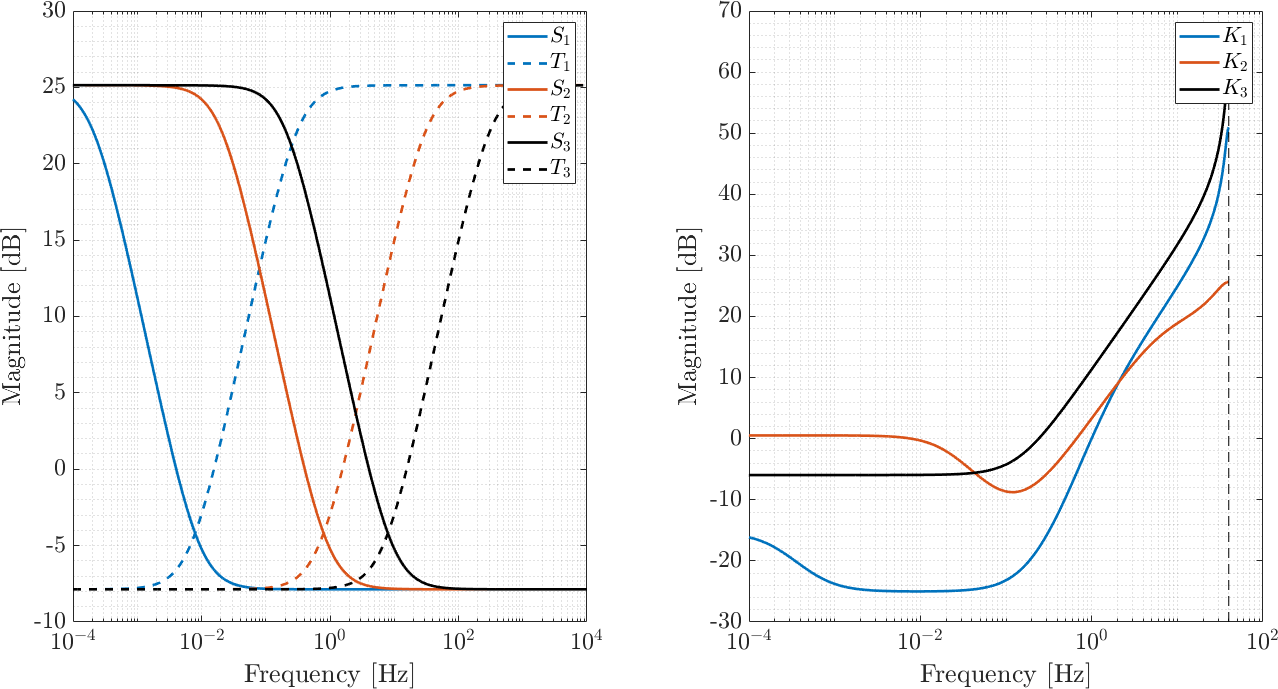
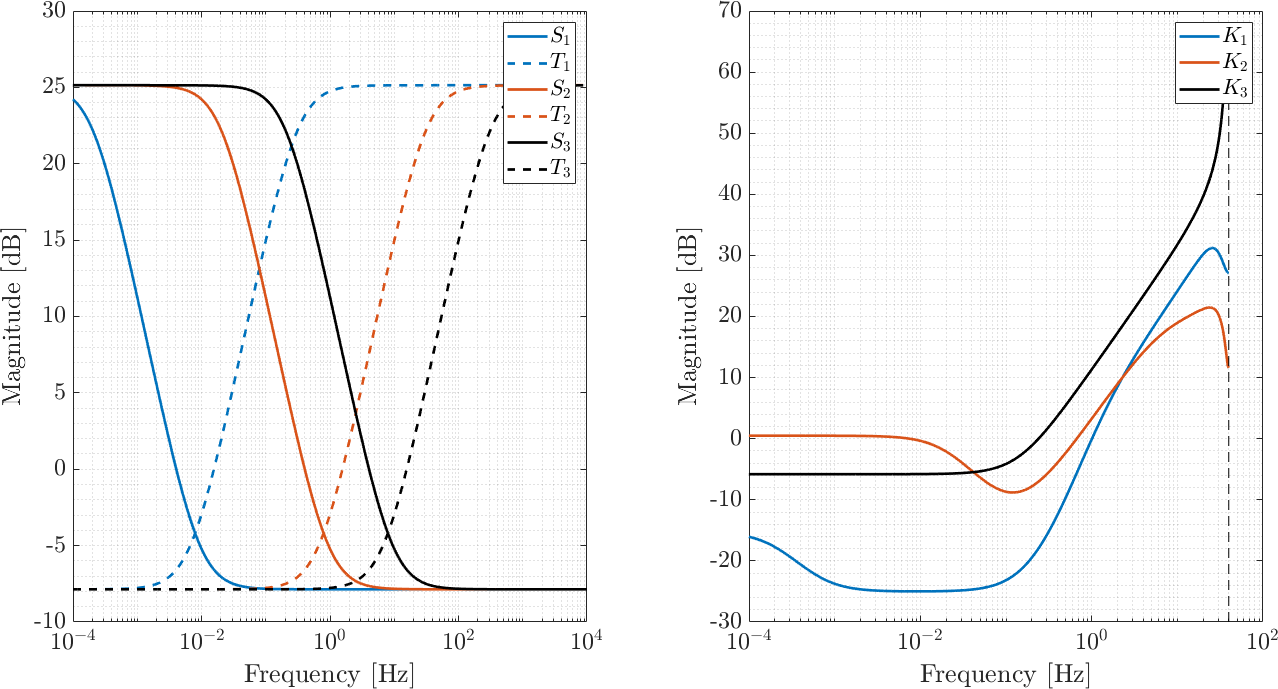
Working synthesis
Synthesis is working with updated, also conditioning is made better.

diff --git a/LMIs/controllerConditioning.m b/LMIs/controllerConditioning.m
@@ -1,61 +1,83 @@
-function [sdpVariables, A_bar, gamma] = controllerConditioning(OpenLoopSDSystem, sdpVariableStruct, opts, performanceIndicator, gamma)
+function [K, val] = controllerConditioning(sys, sdpVars, opts)
 %UNTITLED7 Summary of this function goes here
 %   Detailed explanation goes here
 %
 
 arguments
-    OpenLoopSDSystem        OpenLoopSampledDataSystem
-    sdpVariableStruct       struct
+    sys                     OpenLoopSampledDataSystem
+    sdpVars                 struct
     opts                    jfopt
-    performanceIndicator    string = 'Hinf'
-    gamma                   double = 1
 end
 
 backoff = opts.LMI.backoffFactor;
 numAcc = opts.LMI.numericalAccuracy;
 solverSettings = opts.LMI.solverOptions;
 alphabackoff = 25;
+maxIter = opts.LMI.bisection.maxIter;
 
 % Dimensions;
-nu = size(OpenLoopSDSystem.Bud, 2);
-ny = size(OpenLoopSDSystem.Cy, 1);
-nx = size(sdpVariableStruct.Y, 1);
-nc = size(sdpVariableStruct.X, 1);
+nx = size(sdpVars.Y, 1);
+nc = size(sdpVars.X, 1);
 
-gamValue = gamma*backoff;
-
-if strcmpi(performanceIndicator, 'Hinf')
-    [synthesisMatrix, A_bar] = fillHinfLMI(OpenLoopSDSystem, sdpVariableStruct, opts, gamValue);
-else
-    error('Only "Hinf" controller synthesis is specified at the moment.');
+switch lower(opts.performanceString)
+    case{'hinf', 'l2', 'h00', 'hoo'}
+        opts.performanceValue = opts.performanceValue*backoff;
 end
 
-LMI = synthesisMatrix >= numAcc*eye(size(synthesisMatrix));
+LMI = fillDissSynthesisLMI(sys, sdpVars, opts);
 
-% Add numerical aspect contraints
+% Add numerical contraints on lyapunov and controller construction matrices
 alpha = sdpvar(1,1);
-NumericalConstraint1 = (sdpVariableStruct.X - alpha*eye(size(sdpVariableStruct.X)) <= -numAcc*eye(size(sdpVariableStruct.X)));
-NumericalConstraint2 = (sdpVariableStruct.Y - alpha*eye(size(sdpVariableStruct.Y)) <= -numAcc*eye(size(sdpVariableStruct.Y)));
-ParamBlock = [sdpVariableStruct.Gamma, sdpVariableStruct.Theta; sdpVariableStruct.Upsilon, sdpVariableStruct.Omega];
+lyapNumConstr1 = (sdpVars.X - alpha*eye(size(sdpVars.X)) <= -numAcc*eye(size(sdpVars.X)));
+lyapNumConstr2 = (sdpVars.Y - alpha*eye(size(sdpVars.Y)) <= -numAcc*eye(size(sdpVars.Y)));
+ParamBlock = [sdpVars.Gamma, sdpVars.Theta; sdpVars.Upsilon, sdpVars.Omega];
 alphaBlock1 = alpha*eye(size(ParamBlock, 1));
 alphaBlock2 = alpha*eye(size(ParamBlock, 2));
-NumericalConstraint3 = [alphaBlock1, ParamBlock; ParamBlock', alphaBlock2] >= numAcc*eye(size(blkdiag(alphaBlock1, alphaBlock2)));
+contrNumConstr = [alphaBlock1, ParamBlock; ParamBlock', alphaBlock2] >= numAcc*eye(size(blkdiag(alphaBlock1, alphaBlock2)));
 
-NumericalConstraints = [NumericalConstraint1, NumericalConstraint2, NumericalConstraint3];
+NumericalConstraints = [lyapNumConstr1, lyapNumConstr2, contrNumConstr];
 
 LMI = [LMI, NumericalConstraints];
 
 diagnostics = optimize(LMI, alpha, solverSettings);
 
-alphaValue = value(alpha)*alphabackoff;
-LMI = replace(LMI, alpha, alphaValue);
+if diagnostics.problem ~= 0
+    alphaValue = value(alpha)*alphabackoff;
+    LMI = replace(LMI, alpha, alphaValue);
+    diagnostics = optimize(LMI, [], solverSettings);
+    if diagnostics.problem ~= 0
+        error('Minimizing alpha in controllerConditioning leads to non-solvable LMI');
+    end
+end
 
-beta = sdpvar(1,1); assign(beta, 1);
-newPosDefConstraint = [sdpVariableStruct.Y, eye(nx, nc)*beta; eye(nc, nx)*beta, sdpVariableStruct.X];
+beta = sdpvar(1,1);
+assign(beta, 1); % make sure that solver maximizes beta starting from one
+newPosDefConstraint = [sdpVars.Y, eye(nx, nc)*beta; eye(nc, nx)*beta, sdpVars.X];
 
 LMI = [LMI, newPosDefConstraint >= numAcc*eye(size(newPosDefConstraint)), beta >= 1];
 diagnostics = optimize(LMI, -beta, solverSettings);
+betaValue = value(beta);
 
-sdpVariables = sdpVariableStruct;
+betaWhileLoop = diagnostics.problem ~= 0;
 
+betaLoopCount = 0;
+while betaWhileLoop
+    betaValue = max([sqrt(value(beta)), betaValue/backoff]);
+    LMI_new = replace(LMI, beta, betaValue);
+    diagnostics = optimize(LMI_new, [], solverSettings);
+    if diagnostics.problem == 0
+        betaWhileLoop = false;
+    end
+    betaLoopCount = betaLoopCount+1;
+    if betaLoopCount > maxIter
+        error('Maximizing beta in controllerConditioning leads to non-solvable LMI');
+    end
+end
+
+K = controllerConstruction(sys, sdpVars, opts);
+val = opts.performanceValue;
+
+if wellConditionedController(K)
+    warning('Numerical conditioning of the controller still produces ill-conditioned controller.');
+end
 end

diff --git a/LMIs/bisectionDissSynthesisLMI.m b/LMIs/bisectionDissSynthesisLMI.m
@@ -1,4 +1,7 @@
-function synVars = bisectionDissSynthesisLMI(sys, opts)
+function [K, val, T] = bisectionDissSynthesisLMI(sys, opts)
+% This bisection synthesis algorithm now only works for Hinf norm. Gen H2
+% norm will be added in the future.
+
 arguments
     sys     OpenLoopSampledDataSystem
     opts    jfopt
@@ -7,7 +10,6 @@ end
 % Bisection settings
 Nmax = opts.LMI.bisection.maxIter; %Maximum numbers of iterations of the bisection search
 tol = opts.LMI.bisection.tol; %Tolerance to calculate upperbound of Hinf norm
-numAcc = opts.LMI.numericalAccuracy;
 
 % Initialization
 a_init = max(norm(sys.Dzc_wc, 2), norm(sys.Dzd_wd, 2));
@@ -20,6 +22,12 @@ end
 N = 0;
 last = 0;
 initialfeas = 0;
+
+% Dimensions
+nx = sys.nx;
+nc = nx;
+nu = sys.nu;
+ny = sys.ny;
 
 % LMI variables
 Y = sdpvar(nx, nx, 'symmetric');
@@ -42,7 +50,6 @@ while N < Nmax
     N = N + 1;
 
     if ~xor((a(2) - a(1)) > tol, N < Nmax-1) || last
-
         opts.performanceValue = mean(a);
 
         % Fill the H-infinity LMI
@@ -79,10 +86,19 @@ else
     return
 end
 
-
-
-if strcmpi(opts.numericalConditioning, 'on')
-    
+if strcmpi(opts.LMI.numericalConditioning, 'yes')
+    [K, val] = controllerConditioning(sys, sdpVars, opts);
+    T = lft(sys, K, opts);
+else
+    K = controllerConstruction(sys, sdpVars, opts);
+    if ~wellConditionedController(K)
+        warning('Controller is ill-conditioned, adding numerical conditioning is advised.');
+    end
+    val = opts.performanceValue;
+    T = lft(sys, K, opts);
+    if isstable(T, opts) ~= true
+        warning('Closed-loop system is unstable, possibly due to ill-conditioned controller');
+    end
 end
 
 end

diff --git a/classes/@jfopt/jfopt.m b/classes/@jfopt/jfopt.m
@@ -6,17 +6,16 @@ classdef jfopt < handle
         reconstructor
         performanceString
         performanceValue
-        numericalConditioning
     end
 
     methods
         % Constructor
-        function obj = jfopt(h, performanceString, performanceValue, numericalConditioning)
+        function obj = jfopt(h, performanceString, performanceValue, controllerConditioning)
             arguments
                 h                       (1,1) double {mustBeGreaterThanOrEqual(h, 0)}
                 performanceString       char = 'hinf'
                 performanceValue        double = []
-                numericalConditioning   char = 'no'
+                controllerConditioning   char = 'no'
             end
 
             obj.simulation.rule = 1;
@@ -31,8 +30,7 @@ classdef jfopt < handle
             obj.LMI.bisection.maxIter = 100;
             obj.LMI.bisection.tol = 1e-4;
             obj.LMI.backoffFactor = 1.01;
-            obj.LMI.controllerConditioning = 'yes';
-            obj.LMI.numericalConditioning = numericalConditioning;
+            obj.LMI.controllerConditioning = controllerConditioning;
 
             obj.performanceString = performanceString;
 

diff --git a/LMIs/fillDissSynthesisLMI.m b/LMIs/fillDissSynthesisLMI.m
@@ -1,7 +1,8 @@
-function LMI = fillDissSynthesisLMI(sys, opts)
+function LMI = fillDissSynthesisLMI(sys, sdpVars, opts)
 
 arguments
     sys       {mustBeA(sys, "OpenLoopSampledDataSystem")}%, "ss", "zpk", "tf"])}
+    sdpVars   struct
     opts      jfopt
 end
 
@@ -54,14 +55,14 @@ A_bar = A_hat(1:nx, 1:nx);
 B_bar = B_hat(1:nx, :);
 C_bar = C_hat(:, 1:nx);
 
-Ad = OpenLoopSDSystem.Ad;
-Bd = OpenLoopSDSystem.Bwd;
-Bu = OpenLoopSDSystem.Bud;
-Cd = OpenLoopSDSystem.Czd;
-Cy = OpenLoopSDSystem.Cy;
-Dyd = OpenLoopSDSystem.Dy_wd;
-Ddu = OpenLoopSDSystem.Dzd_ud;
-Ddd = OpenLoopSDSystem.Dzd_wd;
+Ad = sys.Ad;
+Bd = sys.Bwd;
+Bu = sys.Bud;
+Cd = sys.Czd;
+Cy = sys.Cy;
+Dyd = sys.Dy_wd;
+Ddu = sys.Dzd_ud;
+Ddd = sys.Dzd_wd;
 %Dyu is not necessary since it may be assumed to be zero w.l.o.g.
 %If Dyu is in fact not zero, this will be compensated for in the controller
 %construction.
@@ -179,6 +180,6 @@ else
 end
 
 numAcc = opts.LMI.numericalAccuracy;
-LMI = dissSynthesisMatrix >= numAcc*eye(size(jfAnalysisMatrix));
+LMI = dissSynthesisMatrix >= numAcc*eye(size(dissSynthesisMatrix));
 
 end

diff --git a/wellConditionedController.m b/wellConditionedController.m
@@ -1,0 +1,31 @@
+function [flag, varargout] = wellConditionedController(K)
+% varargout [nup, ntz]
+arguments
+    K           {mustBeDynamicalSystem(K)}
+end
+
+nargoutchk(0, 2);
+
+z = tzero(K);
+p = pole(K);
+
+if K.Ts ~= 0
+    nunstabpoles = sum(abs(p)>=1);
+    nnonminzeros = sum(abs(z)>=1);
+else
+    nunstabpoles = sum(real(p)>=0);
+    nnonminzeros = sum(real(z)>=0);
+end
+
+if nunstabpoles+nnonminzeros > 0
+    flag = false;
+else
+    flag = true;
+end
+
+if nargout == 2
+    flag = nunstabpoles;
+    varargout(1) = {nnonminzeros};
+end
+
+end

diff --git a/synthesis.m b/synthesis.m
@@ -19,7 +19,7 @@ end
 switch lower(opts.performanceString)
     case {'hinf', 'l2', 'h00', 'hoo'}
 %         [K, synthesisNormValue, T] = SDHinfsyn(Plant, opts);
-        synVars = bisectionDissSynthesisLMI(Plant, opts);
+        [K, synthesisNormValue, T] = bisectionDissSynthesisLMI(Plant, opts);
     case {'h2'}
         warning('The H2 norm has yet to be implemented in the jump-flow systems toolbox');
         K = 0;
